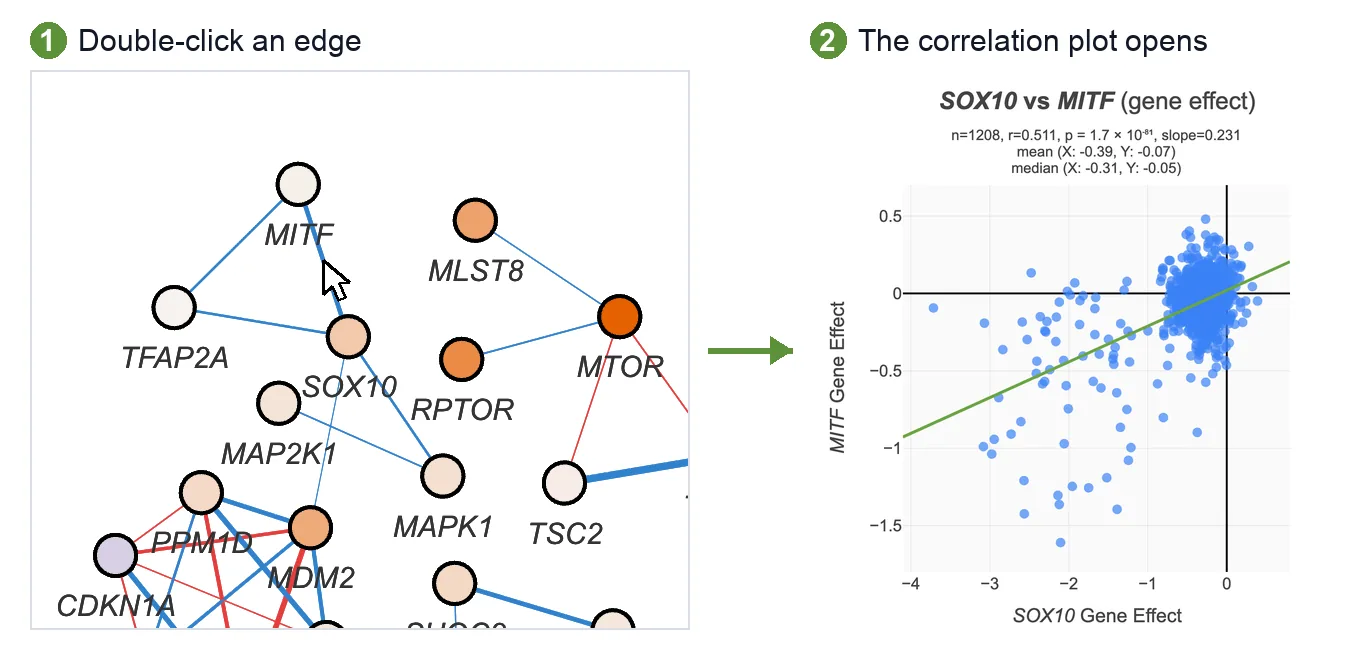
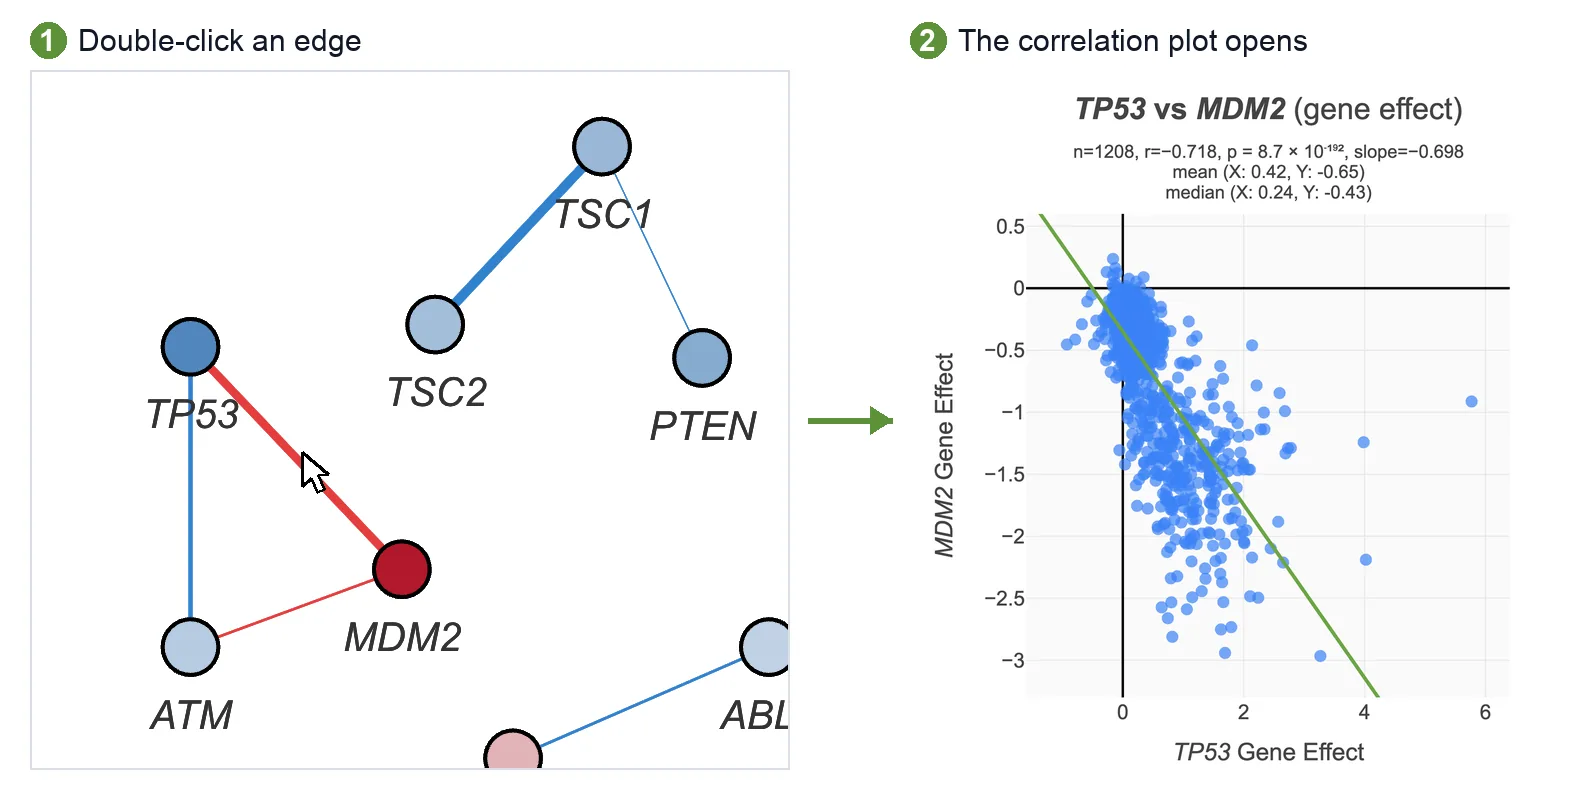
v.91.11: tour figures are the app's own exports (network with pasted LFC colours, TP53-MDM2 edge and plot, plot by EDA2R mRNA, MYC page, melanoma browser, volcano vs all others, melanoma PCA by MITF with loadings, TP53 pathway heatmap sorted by TP53 mutation, BRAF strip plot); async actions reproduc
Claude-Session: https://claude.ai/code/session_01GrRsah6zkLaafT5s7nhzFW

diff --git a/tour.js b/tour.js
@@ -59,40 +59,86 @@
         };
         setTimeout(arm, 600);
     }
-    function openBrowserFiltered(a, tissue, hotspotGene) {
-        a.openCellLineBrowser();
-        setTimeout(() => {
-            if (tissue) setVal('clbTissueFilter', tissue);
-            if (hotspotGene) setVal('clbHotspotFilter', hotspotGene);
-        }, 400);
+    const wait = (ms) => new Promise(r => setTimeout(r, ms));
+    const tick = (id) => { const cb = document.getElementById(id); if (cb && !cb.checked) cb.click(); };
+    const until = async (test, max) => { for (let i = 0; i < (max || 80); i++) { if (test()) return true; await wait(250); } return false; };
+    // The "Test Genes" set with pasted screen statistics, nodes coloured by
+    // LFC, genes without a correlation shown too.
+    async function runStatsExample(a) {
+        document.getElementById('modeGeneSetBtn')?.click();
+        [...document.querySelectorAll('.input-tab')].find(b => /with stats/i.test(b.textContent))?.click();
+        await wait(300);
+        a.loadTestGenesWithStats();
+        setVal('correlationCutoff', 0.4);
+        const before = a.results;
+        await wait(200);
+        document.getElementById('runAnalysis')?.click();
+        await until(() => a.results && a.results !== before && a.results.success);
+        tick('showUncorrelatedGenes'); await wait(800); tick('colorByStats');
     }
-    function compareSkinBraf(a) {
-        openBrowserFiltered(a, 'Skin', 'BRAF');
-        setTimeout(() => {
-            a._resetGEInspectScope();
-            a._geInspectScope = 'lineage';
-            a._runBusy({ button: 'clbInspectGEBtn', label: 'Comparing' }, () => a.inspectSelectionGE());
-        }, 1600);
+    async function openMelanoma(a, hotspotGene) {
+        a.openCellLineBrowser(); await wait(500);
+        setVal('clbTissueFilter', 'Skin'); await wait(500);
+        setVal('clbSubtypeFilter', 'Melanoma'); await wait(500);
+        setVal('clbHotspotFilter', hotspotGene || ''); await wait(700);
     }
-    function runMutationExample() {
+    async function compareMelanoma(a) {
+        await openMelanoma(a, 'BRAF');
+        a._resetGEInspectScope();
+        a._geInspectScope = 'all';
+        a._runBusy({ button: 'clbInspectGEBtn', label: 'Comparing' }, () => a.inspectSelectionGE());
+    }
+    async function pcaMelanoma(a) {
+        await openMelanoma(a, '');
+        [...document.querySelectorAll('#clbModalCard button')].find(b => /PCA \/ UMAP/.test(b.textContent))?.click();
+        await wait(800);
+        setVal('clbUmapMethod', 'pca'); setVal('clbUmapDataType', 'expr');
+        tick('clbUmapShowLoadings');
+        const before = a._clbUmapData;
+        document.getElementById('clbUmapRunBtn')?.click();
+        await until(() => a._clbUmapData && a._clbUmapData !== before, 120);
+        await wait(500);
+        const cg = document.getElementById('clbUmapColorGene');
+        if (cg) { cg.value = 'MITF'; cg.dispatchEvent(new Event('input', { bubbles: true })); }
+        setVal('clbUmapColorGeneType', 'expr');
+        document.getElementById('clbUmapColorGeneBtn')?.click();
+    }
+    async function heatmapMelanoma(a) {
+        await openMelanoma(a, '');
+        document.getElementById('clbHeatmapBtn')?.click();
+        await wait(800);
+        setVal('hmLineage', 'Skin'); await wait(400);
+        setVal('hmSubtype', 'Melanoma'); await wait(400);
+        const rows = a._hmAnnRows || [];
+        const mut = rows.find(r => r.mode === 'hotspot');
+        if (mut) { mut.gene = 'TP53'; mut.sortKey = 'cat-asc'; a._hmRenderAnnRowsBlock?.(); }
+        setVal('hmPreset', 'tp53_members');
+    }
+    async function runMutationExample(a) {
         document.getElementById('modeMutationBtn')?.click();
-        setTimeout(() => {
-            setVal('mutationHotspotSelect', 'BRAF');
-            setVal('lineageFilter', 'Skin');
-            setTimeout(() => document.getElementById('runMutationAnalysisBtn')?.click(), 500);
-        }, 700);
+        await wait(700);
+        setVal('mutationHotspotSelect', 'BRAF');
+        setVal('lineageFilter', 'Skin');
+        await wait(500);
+        const before = a.mutationResults;
+        document.getElementById('runMutationAnalysisBtn')?.click();
+        await until(() => a.mutationResults && a.mutationResults !== before, 120);
+        await wait(400);
+        a.showGeneEffectDistribution('BRAF');
     }
     const ACTIONS = {
-        hero: () => runExampleSet({ cutoff: 0.3, colorGE: true }),
+        hero: (a) => runStatsExample(a),
         heroMrna: () => runExampleSet({ cutoff: 0.3, basis: 'expr' }),
-        pair: (a) => a.openInspectByGenes('SOX10', 'MITF'),
-        tyr: (a) => { a._inspectPreset = { colorByGene: 'TYR', colorByGeneType: 'expr' }; a.openInspectByGenes('SOX10', 'MITF'); },
-        braf: (a) => { a._inspectPreset = { hotspotGene: 'BRAF', hotspotMode: 'color' }; a.openInspectByGenes('BRAF', 'MAPK1'); },
-        mutation: () => runMutationExample(),
-        compare: (a) => compareSkinBraf(a),
+        pair: (a) => a.openInspectByGenes('TP53', 'MDM2'),
+        eda2r: (a) => { a._inspectPreset = { colorByGene: 'EDA2R', colorByGeneType: 'expr' }; a.openInspectByGenes('TP53', 'MDM2'); },
+        mutation: (a) => runMutationExample(a),
+        compare: (a) => compareMelanoma(a),
+        pca: (a) => pcaMelanoma(a),
+        heatmap: (a) => heatmapMelanoma(a),
+        myc: (a) => a.openGeneBrowser('MYC'),
         kras: (a) => a.openGeneBrowser('KRAS'),
         tsc1: (a) => a.openGeneBrowser('TSC1'),
-        clb: (a) => openBrowserFiltered(a, 'Skin', 'BRAF'),
+        clb: (a) => openMelanoma(a, 'BRAF'),
         wiki: (a) => a.openCellLineWiki(D.lineId('A375') || 'ACH-000219'),
         stats: () => { const m = document.getElementById('infographicModal'); if (m) m.style.display = 'flex'; },
     };
@@ -137,11 +183,11 @@
         <p class="tour-sub">Correlate finds the genes whose CRISPR knockout effects, or mRNA levels, rise and fall together across the DepMap cancer cell lines. Four tools: a network from your gene set, the correlation plot behind every edge, a cell line browser and a gene browser.</p>
         <div class="tour-cta">
             ${tryBtn('hero', 'Build the example network')}
-            ${tryBtn('kras', 'Open KRAS in the Gene Browser')}
+            ${tryBtn('myc', 'Open MYC in the Gene Browser')}
         </div>
     </div>
     <div class="tour-wrap tour-hero-shot">
-        ${shot('hero_network', 'The example gene set as a network, coloured by gene effect', 'hero', { eager: true })}
+        ${shot('net_stats', 'The Test Genes set as a network, nodes coloured by the pasted screen statistics', 'hero', { eager: true })}
     </div>
 </section>
 
@@ -161,12 +207,12 @@
             <h2>Paste a gene set, get a network</h2>
             <p>Two genes whose profiles correlate above your cutoff are connected by an edge. Blue is a positive correlation, red a negative one, thicker is stronger. A group of connected genes is usually a complex or a pathway.</p>
             ${checks([
+                'The picture at the top: 22 cancer genes pasted with LFC and FDR from a screen. The nodes take the screen colours, so your hits sit on the DepMap network.',
                 'Built on CRISPR gene effect or on mRNA expression. The badge on the network says which.',
-                'Colour the genes by gene effect, by expression, or by your own screen results (LFC and FDR pasted next to the gene list).',
                 'Expand the set to find new partners, send a cluster to Enrichr, open a full-page view.',
             ])}
         </div>
-        ${shot('net_mrna', 'The example set built on mRNA expression', 'heroMrna', { cap: `The same ${nSet} genes built on mRNA expression. On gene effect (top of the page) they split into four groups.`, btn: 'Build the example set on mRNA' })}
+        ${shot('net_mrna', 'A 22-gene set built on mRNA expression', 'heroMrna', { cap: `Another set of ${nSet} genes, built on mRNA expression instead of gene effect. The same set on gene effect splits into four groups.`, btn: 'Build this set on mRNA' })}
     </div>
 </section>
 
@@ -178,7 +224,7 @@
             <p>One dot per cell line, one gene against the other, with r and p. The plot is also a tool on its own: type any two genes.</p>
         </div>
         <div class="tour-wide-shot">
-            ${shot('edge_to_plot', 'Double-clicking the edge between SOX10 and MITF opens their correlation plot', 'pair', { cap: `The edge between ${gi('SOX10')} and ${gi('MITF')}, and the plot behind it: 1,208 cell lines, r 0.51.`, btn: 'Open SOX10 vs MITF' })}
+            ${shot('edge_to_plot', 'Double-clicking the edge between TP53 and MDM2 opens their correlation plot', 'pair', { cap: `The edge between ${gi('TP53')} and ${gi('MDM2')}, and the plot behind it: ${nL} cell lines, r −0.72. Cell lines that tolerate losing ${gi('TP53')} depend on ${gi('MDM2')}.`, btn: 'Open TP53 vs MDM2' })}
         </div>
         <div class="tour-feature tour-flip">
             <div class="tour-text">
@@ -189,7 +235,7 @@
                     'Highlight cell lines, draw gates, compare tissues side by side.',
                 ])}
             </div>
-            ${shot('scatter_tyr', 'SOX10 against MITF gene effect, coloured by TYR mRNA', 'tyr', { cap: `The same plot coloured by ${gi('TYR')} mRNA: the cell lines that depend on both are the ones that express the pigmentation gene.`, btn: 'Open it coloured by TYR' })}
+            ${shot('scatter_eda2r', 'TP53 against MDM2 gene effect, coloured by EDA2R mRNA', 'eda2r', { cap: `The same plot coloured by ${gi('EDA2R')} mRNA, a p53 target gene: the cell lines that depend on ${gi('MDM2')} are the ones with active p53.`, btn: 'Open it coloured by EDA2R' })}
         </div>
     </div>
 </section>
@@ -202,16 +248,19 @@
                 <h2>Find the right cell lines</h2>
                 <p>Filter the panel by tissue, mutation, fusion, copy number, sex, drug response, or the expression or dependency of any gene. Every cell line has a page of ten sections or more.</p>
                 ${checks([
-                    `Example: skin, ${gi('BRAF')} mutated, female, sensitive to vemurafenib. The count updates as you go.`,
-                    'Compare your selection with the rest as volcano plots, on gene effect and on mRNA.',
+                    `Example: melanoma cell lines with mutated ${gi('BRAF')}. The count updates as you go.`,
+                    'From the list: compare the selection with the rest, a PCA or UMAP, a heatmap of any gene set.',
                     'Download a cell line’s full tables, or the list on screen, as CSV.',
                 ])}
             </div>
-            ${shot('clb', 'The Cell Line Browser filtered to skin cell lines with mutated BRAF, A375 selected', 'clb', { cap: `Skin cell lines with mutated ${gi('BRAF')}, A375 opened in the side panel.`, btn: 'Open the browser with these filters' })}
+            ${shot('clb_mel', 'The Cell Line Browser filtered to melanoma cell lines with mutated BRAF, A375 selected', 'clb', { cap: `Melanoma cell lines with mutated ${gi('BRAF')}, A375 opened in the side panel.`, btn: 'Open the browser with these filters' })}
         </div>
         <div class="tour-two tour-two-tight">
-            ${shot('wiki', 'The wiki page for A375', 'wiki', { cap: 'The A375 page: summary, origin, classification, genome, dependencies, drug response.', btn: 'Open the A375 page' })}
-            ${shot('volcano', 'Volcano plots comparing BRAF-mutant skin cell lines with the other skin lines', 'compare', { cap: `Compare: 50 ${gi('BRAF')}-mutant skin cell lines against the other 25.`, btn: 'Compare BRAF-mutant skin cell lines' })}
+            ${shot('volcano_mel', 'Volcano plot comparing the 50 BRAF-mutant melanoma cell lines with every other cell line', 'compare', { cap: `Compare: the 50 selected cell lines against the other 1,158. ${gi('BRAF')}, ${gi('SOX10')} and ${gi('MAPK1')} are their dependencies.`, btn: 'Compare these cell lines with the rest' })}
+            ${shot('pca_mitf', 'PCA of the melanoma cell lines on mRNA, coloured by MITF expression, with loadings', 'pca', { cap: `PCA of the melanoma cell lines on mRNA, coloured by ${gi('MITF')} expression. The loadings name the genes behind the axes.`, btn: 'Open this PCA' })}
+        </div>
+        <div class="tour-wide-shot">
+            ${shot('heatmap_tp53', 'Heatmap of the TP53 pathway members across the melanoma cell lines, with a TP53 mutation row', 'heatmap', { cap: `Heatmap: the ${gi('TP53')} pathway members across the melanoma cell lines, sorted by ${gi('TP53')} mutation. Wild-type cell lines depend on ${gi('MDM2')} and ${gi('USP7')}; mutant ones do not.`, btn: 'Open this heatmap' })}
         </div>
     </div>
 </section>
@@ -224,16 +273,16 @@
                 <h2>One gene, one page</h2>
                 <p>Type a gene. The page says how essential it is and where, how it is expressed, which genes follow it, and which complexes and pathways it belongs to. Export it as a PDF.</p>
                 ${checks([
-                    `A verdict for dependency and for expression, ranked against every gene. ${gi('KRAS')}: essential in half of the screened cell lines, most in pancreas and bowel.`,
+                    'A verdict for dependency and for expression, ranked against every gene.',
                     'Co-dependencies and co-expression, with complex partners ringed.',
                     'Mutations, fusions, copy number, drug response, structure and sequence.',
                 ])}
             </div>
-            ${shot('gb_top', 'The Gene Browser page for KRAS: description, ideogram and summary', 'kras', { cap: `${gi('KRAS')} in the Gene Browser: description, chromosome position and the summary.`, btn: 'Open KRAS in the Gene Browser' })}
+            ${shot('gb_myc', 'The Gene Browser page for MYC: description, chromosome position and records', 'myc', { cap: `${gi('MYC')} in the Gene Browser: description, chromosome position and the records it links to.`, btn: 'Open MYC in the Gene Browser' })}
         </div>
         <div class="tour-two tour-two-tight">
-            ${shot('gb_dependency', 'Dependency section for KRAS with the gene effect distribution', 'kras', { cap: 'Dependency: where the gene sits among all genes, and the most dependent tissues.' })}
-            ${shot('gb_expression', 'Expression section for KRAS with the mRNA distribution', 'kras', { cap: 'Expression: the same for mRNA, with the highest and lowest tissues.' })}
+            ${shot('gb_dependency', 'Dependency section for KRAS with the gene effect distribution', 'kras', { cap: `Dependency, here for ${gi('KRAS')}: where the gene sits among all genes, and the most dependent tissues.`, btn: 'Open KRAS' })}
+            ${shot('gb_expression', 'Expression section for KRAS with the mRNA distribution', 'kras', { cap: `Expression: the same for mRNA, with the highest and lowest tissues.` })}
         </div>
         <div class="tour-feature">
             <div class="tour-text">
@@ -257,27 +306,26 @@
         <div class="tour-feature">
             <div class="tour-text">
                 <h3>Mutation analysis</h3>
-                <p>Wild-type against mutated for any gene, every gene ranked by the difference in gene effect or mRNA.</p>
+                <p>Wild-type against mutated for any gene, every gene ranked by the difference in gene effect or mRNA. Any gene in the table opens as a strip plot.</p>
             </div>
-            ${shot('mutation_table', 'Mutation analysis table for BRAF in skin cell lines', 'mutation', { cap: `${gi('BRAF')} in skin: wild-type, mutated and double-mutant cell lines in separate column groups.`, btn: 'Open BRAF mutation analysis in skin' })}
+            ${shot('strip_braf', 'BRAF gene effect in skin cell lines by BRAF mutation status', 'mutation', { cap: `${gi('BRAF')} gene effect in skin cell lines, split by ${gi('BRAF')} mutation: the mutated cell lines depend on it, the wild-type ones do not.`, btn: 'Open BRAF mutation analysis in skin' })}
         </div>
         <div class="tour-feature tour-flip">
             <div class="tour-text">
                 <h3>Take it with you</h3>
-                <p>Under every view: Export image (PNG, SVG, PDF, PowerPoint at print size), Export for AI, Methods and CSV. An exported PNG or SVG reopens in Correlate with its analysis.</p>
+                <p>Under every view: Export image (PNG, SVG, PDF, PowerPoint at print size), Export for AI, Methods and CSV. An exported PNG or SVG reopens in Correlate with its analysis. Every figure on this page is such an export.</p>
             </div>
             ${shot('export_dialog', 'The Export image dialog', null, { cls: 'tour-shot-dialog', cap: 'Export image: what to export, format, size in cm, resolution, background.' })}
         </div>
         <div class="tour-chips">
-            <div><b>Heatmap</b>a gene set across the cell lines, clustered</div>
+            <div><b>Cell line pages</b>ten sections per cell line: origin, drivers, genome, dependencies, drug response</div>
             <div><b>Compilation</b>a grid of correlation plots, one per pair</div>
             <div><b>Threshold scan</b>how many edges the set keeps as the cutoff moves</div>
-            <div><b>PCA and UMAP</b>of cell lines or genes</div>
             <div><b>Correlation matrix</b>of the set, on gene effect or mRNA</div>
             <div><b>Gates</b>draw a cohort on any plot and carry it on</div>
             <div><b>Green Listed</b>library genes and curated gene classes</div>
         </div>
-        <div class="tour-cta tour-cta-center">${tryBtn('hero', 'Build the example network')}${tryBtn('stats', 'The statistics behind the app')}</div>
+        <div class="tour-cta tour-cta-center">${tryBtn('hero', 'Build the example network')}${tryBtn('wiki', 'Open the A375 page')}${tryBtn('stats', 'The statistics behind the app')}</div>
         <p class="tour-foot">Data: DepMap 26Q1 (Broad Institute), with EBI Complex Portal, Reactome, PRISM and the other sources listed under Reference Data. Correlate is developed in the Wermeling lab.</p>
     </div>
 </section>`;

diff --git a/index.html b/index.html
@@ -3009,6 +3009,10 @@
                 <button onclick="this.closest('#changelogModal').style.display='none'" style="background:none;border:none;font-size:20px;cursor:pointer;">&times;</button>
             </div>
             <div style="font-size:12px; line-height:1.6; color:#374151;">
+                <p><strong>v.91.11 (2026-10-25)</strong></p>
+                <ul>
+                    <li>Tour of the app: the figures are now the app's own exports, cropped to the point: the Test Genes set with pasted LFC values as a coloured network, the TP53-MDM2 edge and its plot, the plot coloured by EDA2R mRNA, the MYC page, melanoma cell lines with mutated BRAF in the browser, their volcano against all other cell lines, the melanoma PCA coloured by MITF with loadings, the TP53 pathway heatmap sorted by TP53 mutation, and the BRAF strip plot from mutation analysis. Every button reproduces the state shown.</li>
+                </ul>
                 <p><strong>v.91.10 (2026-10-25)</strong></p>
                 <ul>
                     <li>Tour of the app restructured around the four main tools, each section named after the tool it shows: Network, Correlation plot (with a new figure of an edge being double-clicked and the plot that opens), Cell Line Browser (with the selection compare) and Gene Browser; mutation analysis and exports moved to a short More section; all text shortened.</li>
@@ -8682,7 +8686,7 @@
             </span>
             <!-- Positioned off the row's right end (see #versionBadge CSS), so
                  it sits next to YouTube without moving the centred links. -->
-            <a href="#" id="versionBadge" onclick="event.preventDefault();document.getElementById('changelogModal').style.display='flex'" style="font-family:monospace; font-size:11px; background:#f3f4f6; padding:2px 8px; border-radius:10px; color:#6b7280; border:1px solid #d1d5db; font-weight:400;">v.91.10</a>
+            <a href="#" id="versionBadge" onclick="event.preventDefault();document.getElementById('changelogModal').style.display='flex'" style="font-family:monospace; font-size:11px; background:#f3f4f6; padding:2px 8px; border-radius:10px; color:#6b7280; border:1px solid #d1d5db; font-weight:400;">v.91.11</a>
         </span>
     </div>
 
@@ -12061,6 +12065,6 @@
     </div>
 
     <script src="app.js?v=v91_8"></script>
-    <script src="tour.js?v=v91_10"></script>
+    <script src="tour.js?v=v91_11"></script>
 </body>
 </html>
